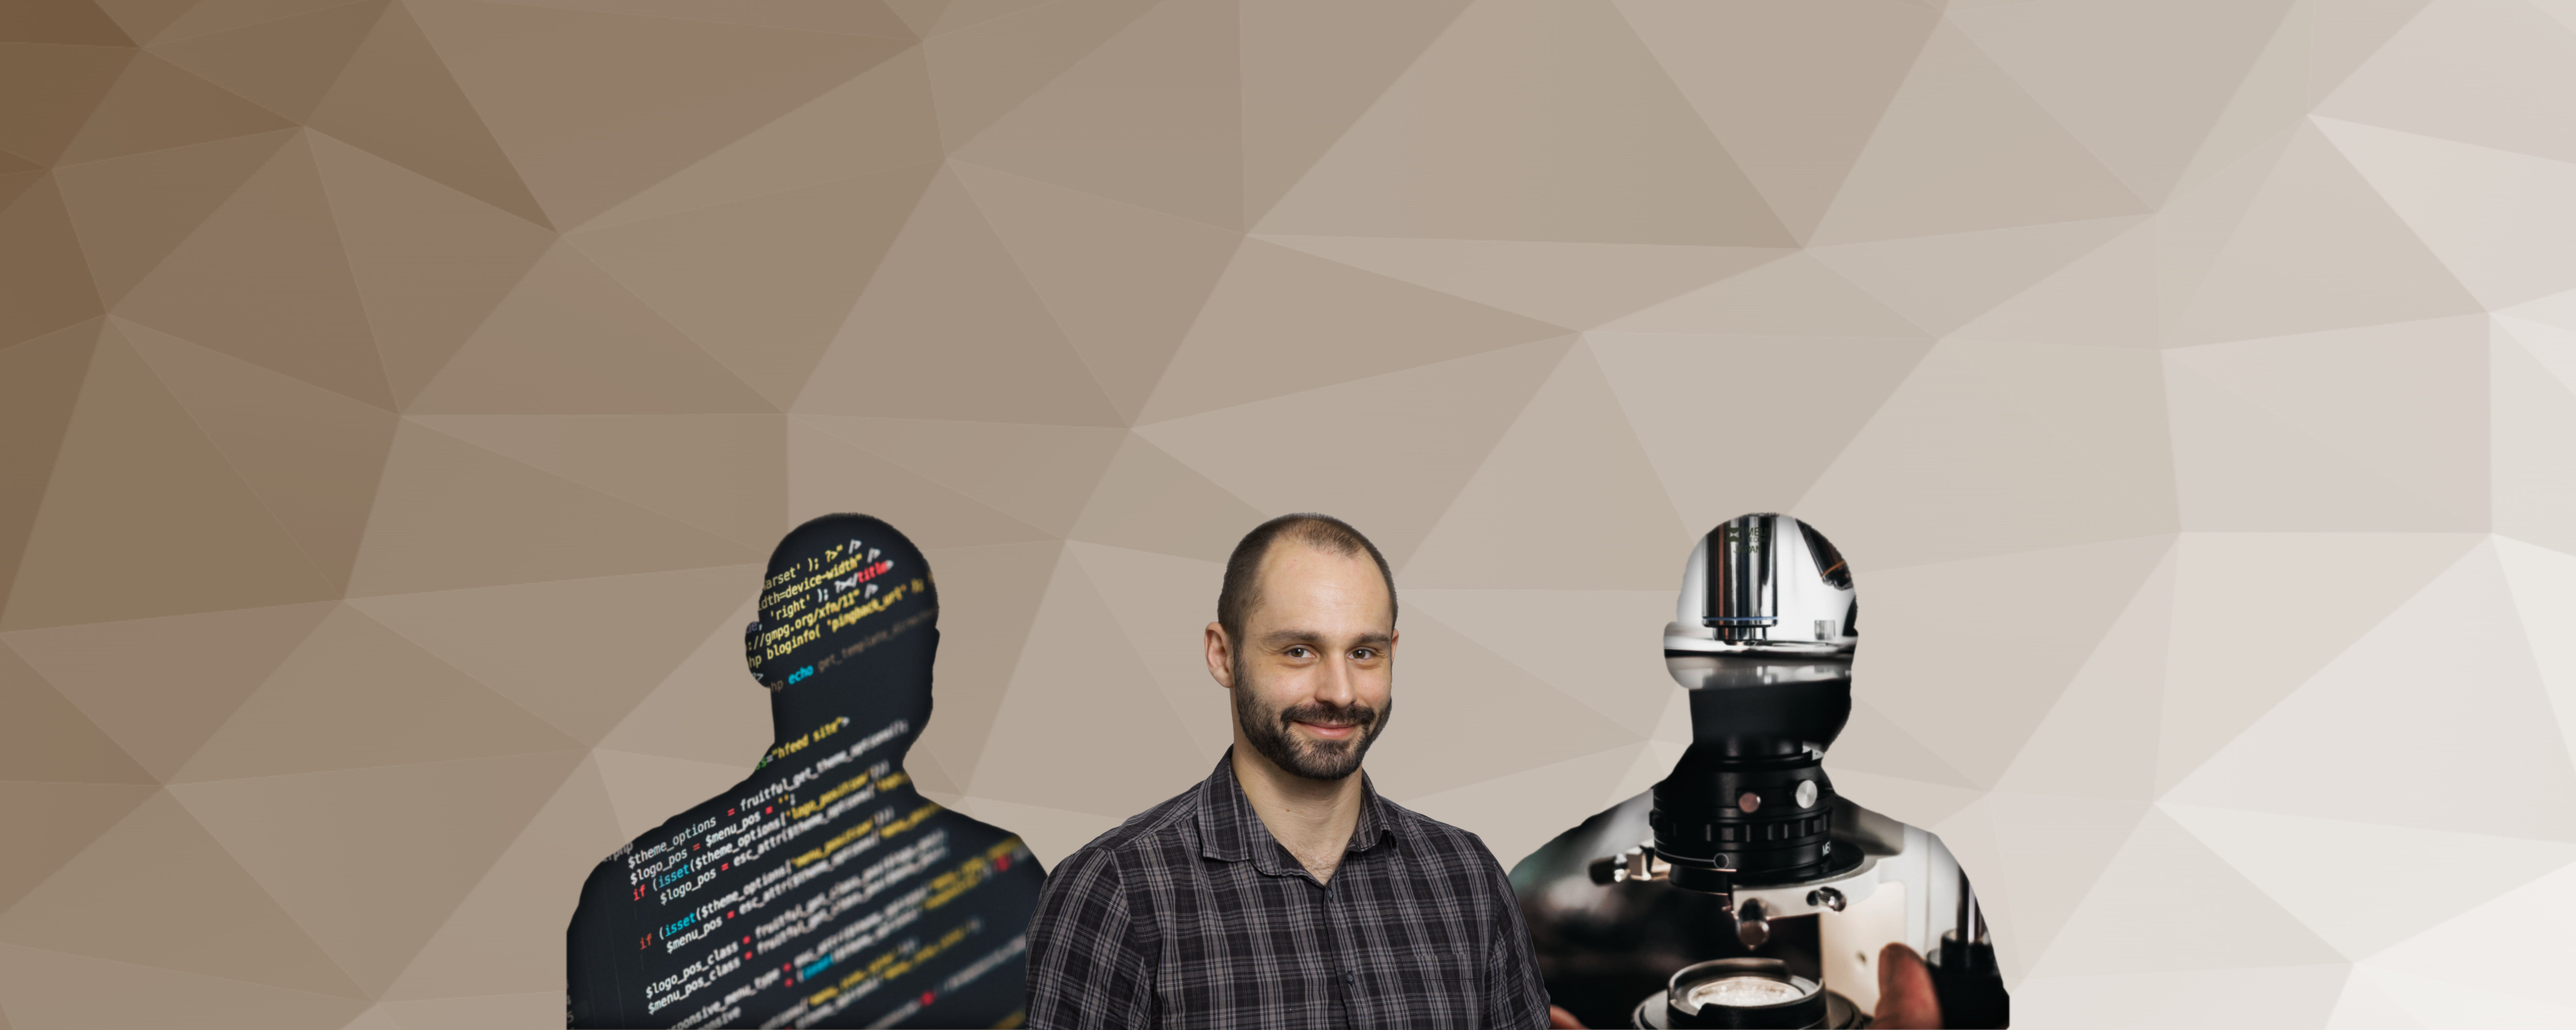
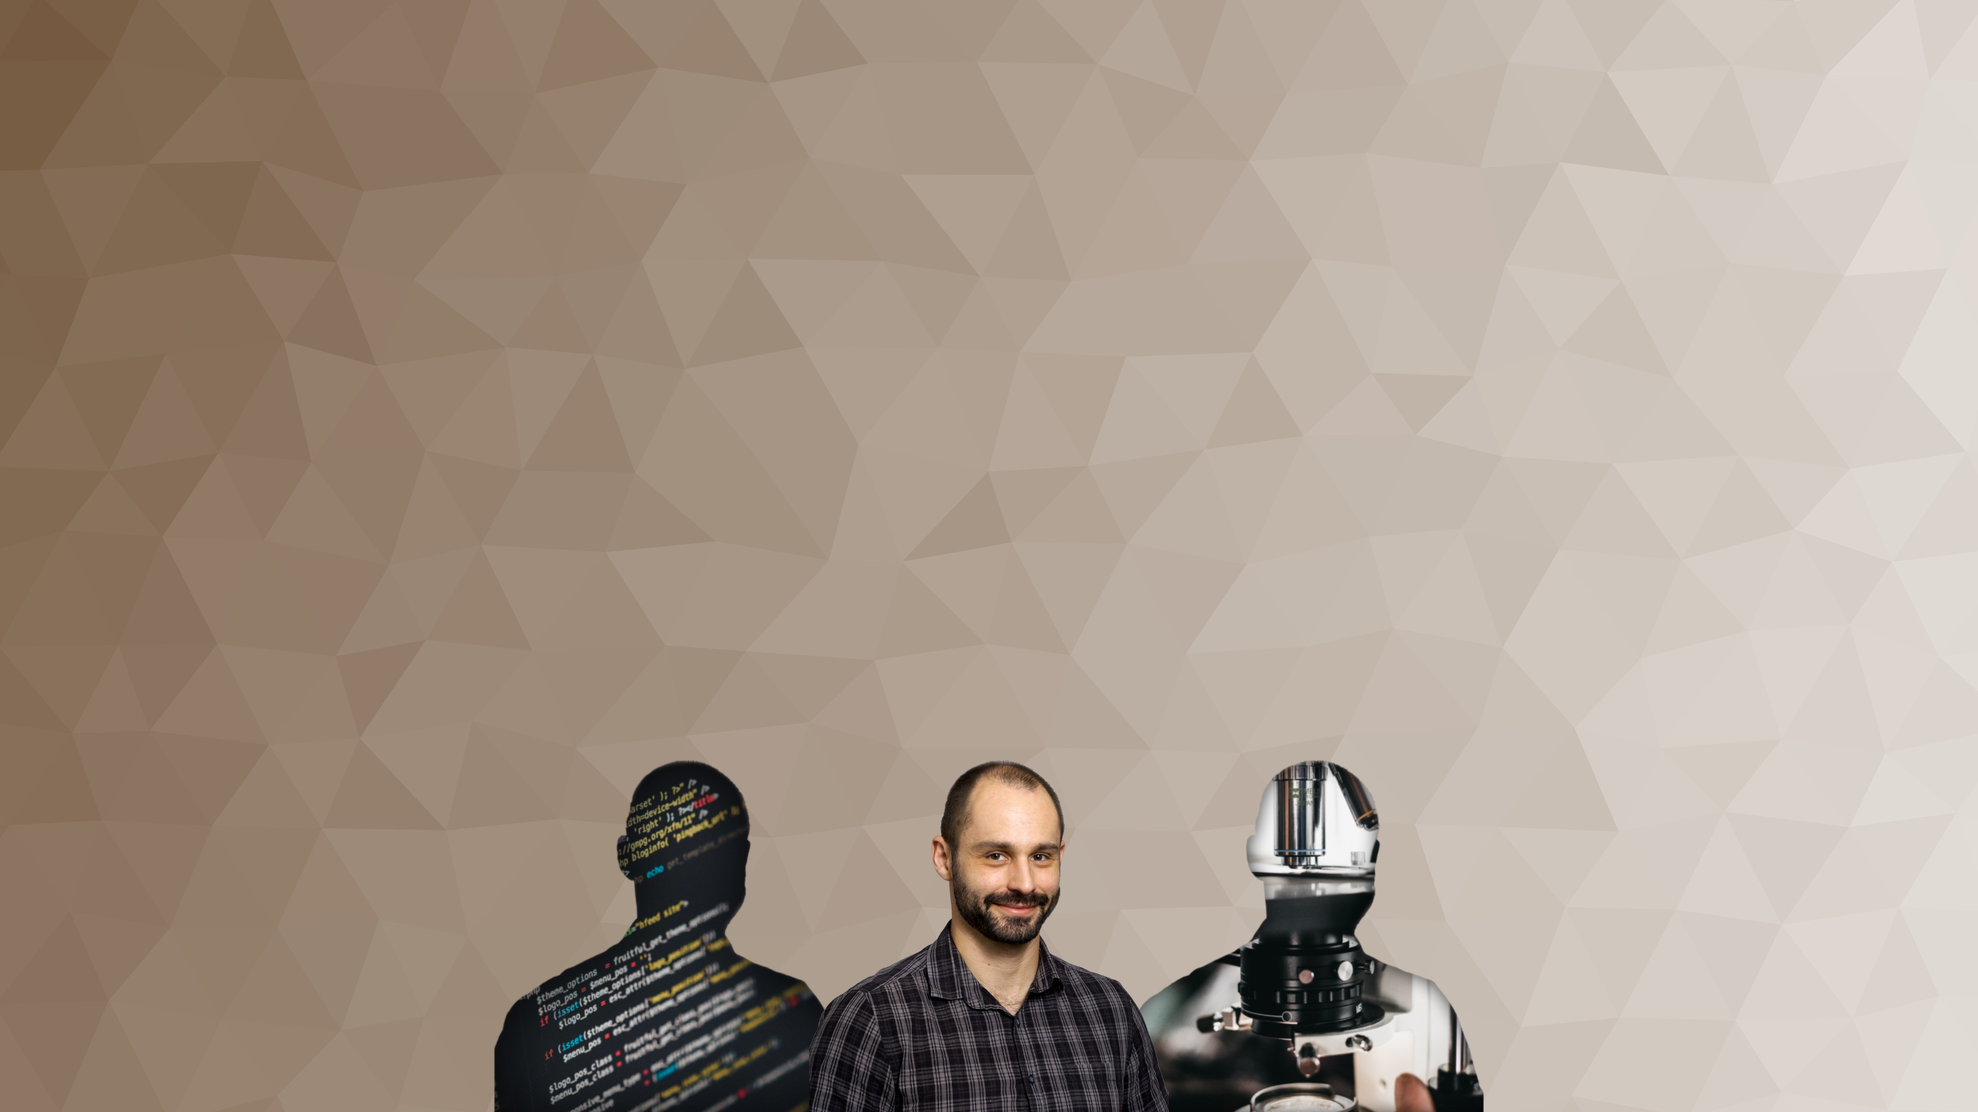
Changes to hero text  image scaling

diff --git a/_sass/custom/custom.scss b/_sass/custom/custom.scss
@@ -1,9 +1,30 @@
+// Custom Images
+
 header.masthead {
     color: #2F4251;
-
+    background-position: center bottom;
+    background-image: url("#{$header-image}");
     .intro-text {
         padding-top: 100px;
-        padding-bottom: 300px;
+        padding-bottom: 150px;
+
+        .intro-lead-in {
+            font-size: 34px;
+            font-style: normal;
+            font-weight: 700;
+            line-height: 34px;
+            margin-bottom: 25px;
+            @include heading-font;
+        }
+
+        .intro-heading {
+            font-size: 22px;
+            font-weight: 700;
+            line-height: 50px;
+            font-weight: 200;
+            margin-bottom: 22px;
+            @include heading-font;
+        }
     }
 }
 
@@ -11,7 +32,38 @@ header.masthead {
     header.masthead {
         .intro-text {
             padding-top: 150px;
-            padding-bottom: 500px;
+            padding-bottom: 200px;
+            .intro-lead-in {
+                font-size: 60px;
+                font-style: normal;
+                font-weight: 700;
+                line-height: 60px;
+                margin-bottom: 25px;
+                @include heading-font;
+              }
+              .intro-heading {
+                font-size: 28px;
+                font-weight: 200;
+                line-height: 28px;
+                margin-bottom: 50px;
+                @include heading-font;
+              }
+        }
+    }
+}
+
+@media (min-width: 1152px) {
+    header.masthead {
+        .intro-text {
+            padding-bottom: 300px;
+        }
+    }
+}
+
+@media (min-width: 1700px) {
+    header.masthead {
+        .intro-text {
+            padding-bottom: 400px;
         }
     }
 }

diff --git a/_includes/publications.html b/_includes/publications.html
@@ -1,19 +1,17 @@
 <!-- Publications -->
-<section class="page-section" id="{{ site.data.sitetext[site.locale].publications.section | default: " services" }}">
+<section class="page-section" id="{{ site.data.sitetext[site.locale].publications.section | default: " publications" }}">
     <div class="container">
 
         <div class="row">
             <div class="col-lg-12 text-center">
                 <h2 class="section-heading text-uppercase">{{ site.data.sitetext[site.locale].publications.title |
                     default:
-                    "Services" }}</h2>
+                    "Publications" }}</h2>
                 {% if site.data.sitetext[site.locale].publications.text %}
                 <h3 class="section-subheading text-muted">{{ site.data.sitetext[site.locale].publications.text | markdownify }}</h3>
                 {% endif %}
             </div>
         </div>
-
-
 
         <div class="card-slider">
             <div class="inner">
